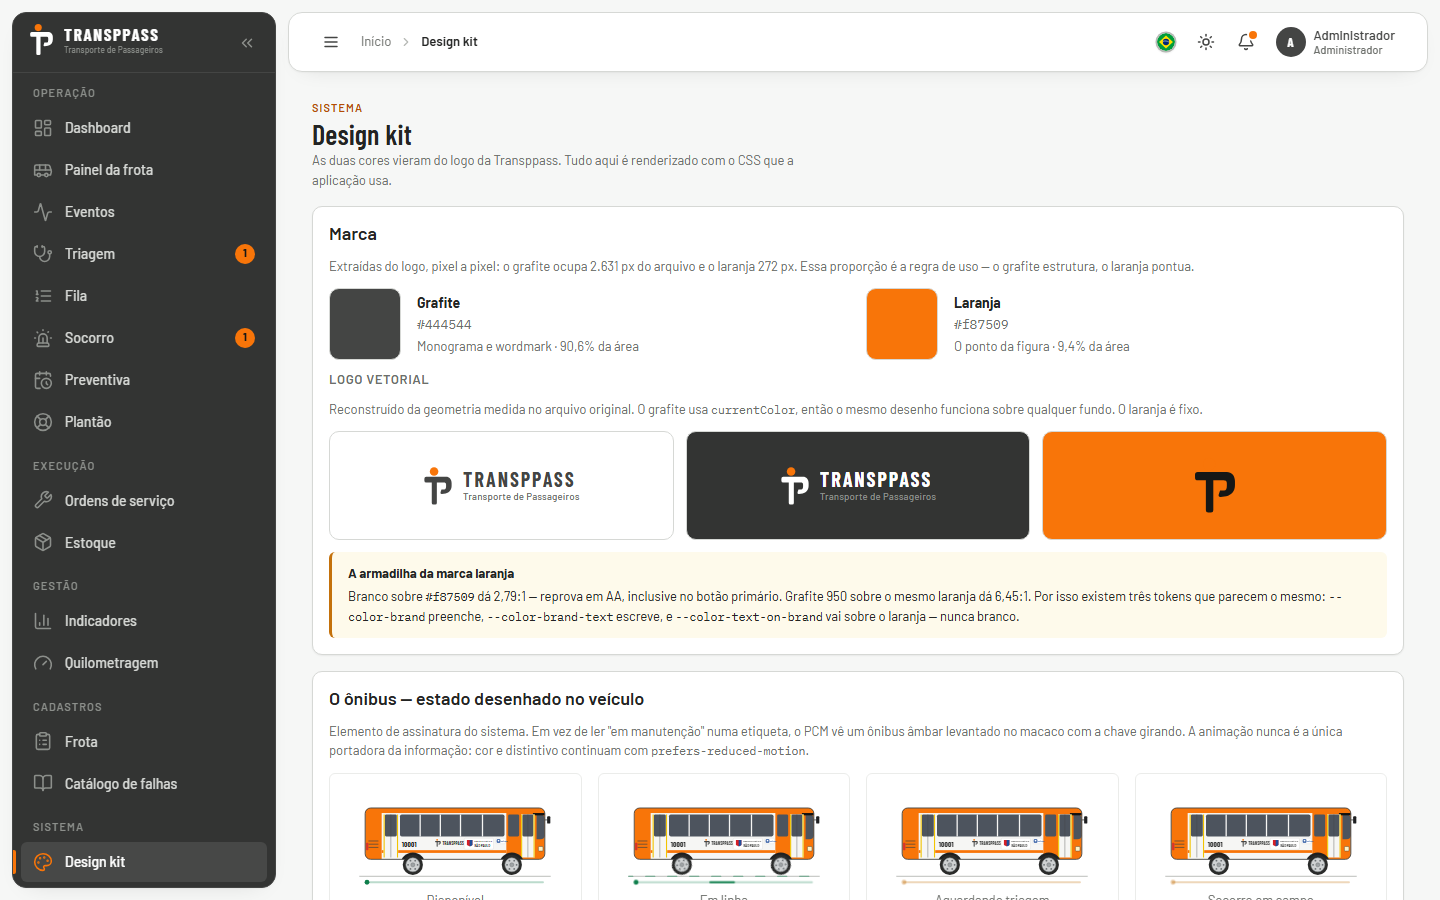
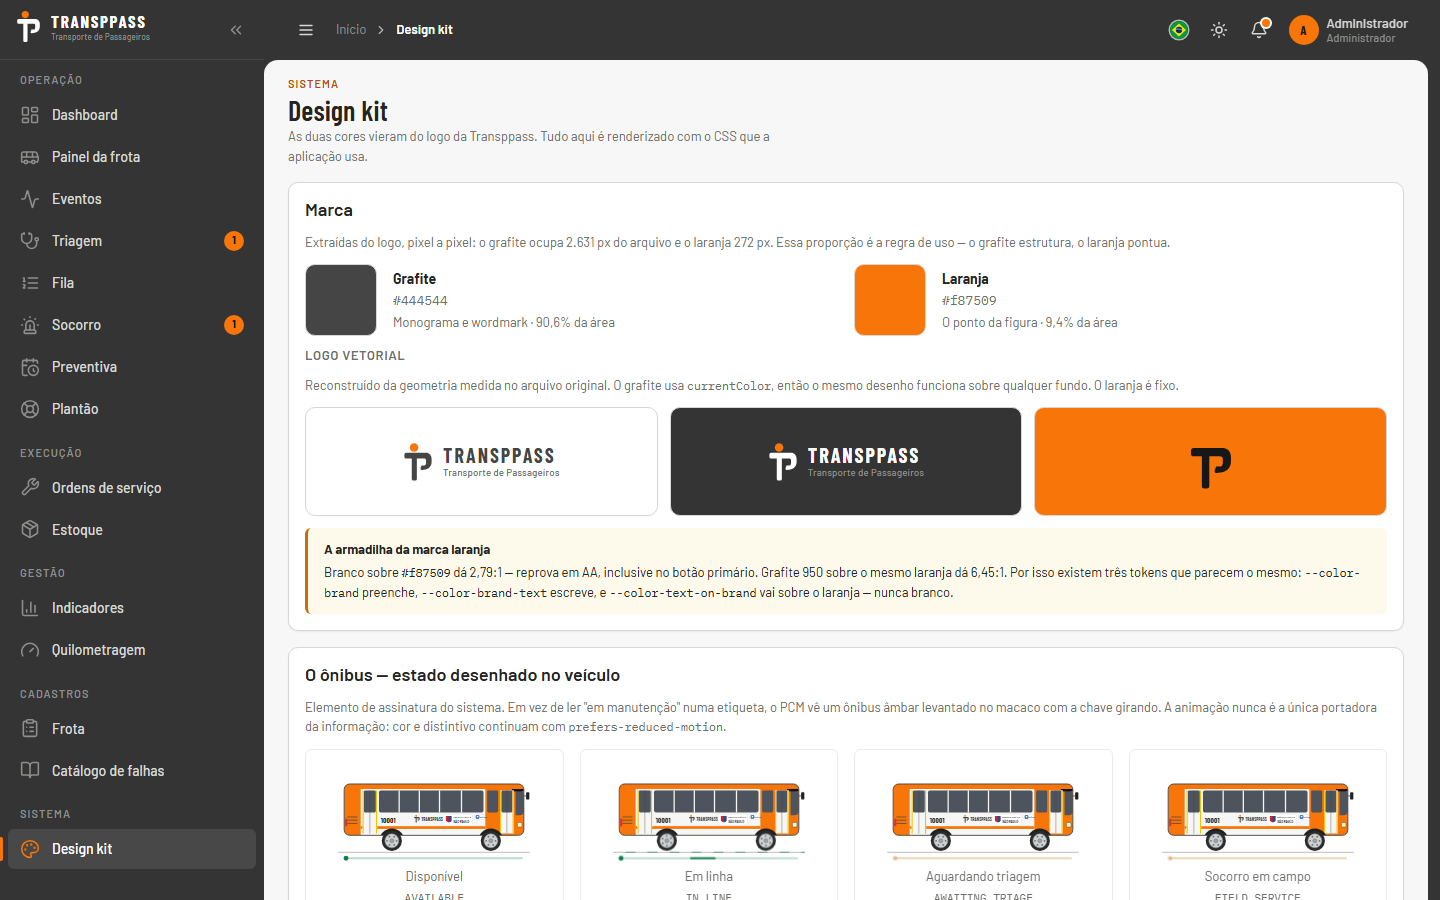
Shell: chassi em L (sidebar + header contínuos) e o miolo como painel solto
Inverte a leitura anterior: sidebar e header são uma só superfície grafite,
e o conteúdo é a ilha — painel arredondado com respiro à direita e embaixo.
Header passa à paleta da sidebar (texto, botões, hover, avatar laranja).

Changed region(s): [[0.0, 0.0, 1.0, 1.0], [0.8125, 0.8711, 0.9375, 1.0], [0.2812, 0.4978, 0.4062, 0.56]]

diff --git a/packages/design-kit/src/css/shell.css b/packages/design-kit/src/css/shell.css
@@ -16,27 +16,24 @@
   --shell-header-h: 60px;
   --shell-subheader-h: 64px;
   --shell-gutter: var(--tp-space-6);
-  /* Respiro entre as ilhas (sidebar, header) e a borda da janela. */
+  /* Respiro entre o chassi (sidebar + header) e o painel do miolo. */
   --shell-gap: var(--tp-space-3);
   --shell-island-radius: var(--tp-radius-xl);
-  --shell-island-shadow: 0 1px 2px rgb(0 0 0 / 0.04), 0 8px 24px -16px rgb(0 0 0 / 0.18);
 }
 
 /*
- * Layout em ilhas: sidebar e header são painéis próprios, com cantos
- * arredondados e respiro, soltos sobre o fundo da página; o miolo fica no
- * fundo, com os cartões dele. A grade continua a mesma — só ganhou gap e
- * padding — então recolher a sidebar segue sendo a transição das colunas.
+ * Chassi em L + miolo solto: sidebar e header são UMA superfície contínua
+ * (a mesma cor grafite da marca), e o conteúdo é um painel arredondado com
+ * respiro dentro dela. A grade continua a mesma, então recolher a sidebar
+ * segue sendo a transição das colunas.
  */
 .shell {
   display: grid;
   grid-template-columns: var(--shell-sidebar-w) minmax(0, 1fr);
   grid-template-rows: var(--shell-header-h) minmax(0, 1fr);
-  gap: var(--shell-gap);
-  padding: var(--shell-gap);
   min-height: 100vh;
   min-height: 100dvh;
-  background: var(--color-bg);
+  background: var(--color-sidebar-bg);
   transition: grid-template-columns var(--tp-duration-slow) var(--tp-ease);
 }
 
@@ -50,16 +47,13 @@
   grid-column: 1;
   grid-row: 1 / -1;
   position: sticky;
-  top: var(--shell-gap);
-  height: calc(100vh - 2 * var(--shell-gap));
-  height: calc(100dvh - 2 * var(--shell-gap));
+  top: 0;
+  height: 100vh;
+  height: 100dvh;
   display: flex;
   flex-direction: column;
   background: var(--color-sidebar-bg);
   color: var(--color-sidebar-text);
-  border: var(--tp-border-thin) solid var(--color-sidebar-border);
-  border-radius: var(--shell-island-radius);
-  box-shadow: var(--shell-island-shadow);
   overflow: hidden;
   z-index: var(--tp-z-sticky);
   width: var(--shell-sidebar-w);
@@ -287,21 +281,20 @@
 
 /* ---- Header ------------------------------------------------------------- */
 
+/* O header é a barra horizontal do mesmo chassi da sidebar. */
 .header {
   grid-column: 2;
   grid-row: 1;
   position: sticky;
-  top: var(--shell-gap);
+  top: 0;
   z-index: var(--tp-z-sticky);
   display: flex;
   align-items: center;
   gap: var(--tp-space-3);
   height: var(--shell-header-h);
   padding: 0 var(--shell-gutter);
-  background: var(--color-surface);
-  border: var(--tp-border-thin) solid var(--color-border);
-  border-radius: var(--shell-island-radius);
-  box-shadow: var(--shell-island-shadow);
+  background: var(--color-sidebar-bg);
+  color: var(--color-sidebar-text);
 }
 
 .header__menu {
@@ -318,16 +311,16 @@
 }
 
 .header__crumbs a {
-  color: var(--color-text-muted);
+  color: var(--color-sidebar-muted);
   text-decoration: none;
 }
 
 .header__crumbs a:hover {
-  color: var(--color-text);
+  color: var(--color-sidebar-text-strong);
 }
 
 .header__crumbs .is-current {
-  color: var(--color-text);
+  color: var(--color-sidebar-text-strong);
   font-weight: var(--tp-weight-semibold);
   overflow: hidden;
   text-overflow: ellipsis;
@@ -360,7 +353,7 @@
   border-radius: var(--tp-radius-md);
   background: transparent;
   border: none;
-  color: var(--color-text-secondary);
+  color: var(--color-sidebar-text);
   font-size: var(--tp-text-sm);
   font-weight: var(--tp-weight-medium);
   cursor: pointer;
@@ -368,12 +361,12 @@
 }
 
 .header__btn:hover {
-  background: var(--color-surface-hover);
-  color: var(--color-text);
+  background: var(--color-sidebar-hover);
+  color: var(--color-sidebar-text-strong);
 }
 
 .header__btn[aria-expanded='true'] {
-  background: var(--color-surface-sunken);
+  background: var(--color-sidebar-active-bg);
   color: var(--color-text);
 }
 
@@ -397,8 +390,8 @@
   width: 30px;
   height: 30px;
   border-radius: var(--tp-radius-full);
-  background: var(--color-structure);
-  color: var(--color-text-inverse);
+  background: var(--color-brand);
+  color: var(--color-text-on-brand);
   display: inline-flex;
   align-items: center;
   justify-content: center;
@@ -419,7 +412,7 @@
 
 .header__user-role {
   font-size: var(--tp-text-2xs);
-  color: var(--color-text-muted);
+  color: var(--color-sidebar-muted);
 }
 
 /* Menu suspenso */
@@ -609,6 +602,10 @@
   min-width: 0;
   display: flex;
   flex-direction: column;
+  background: var(--color-bg);
+  border-radius: var(--shell-island-radius);
+  margin: 0 var(--shell-gap) var(--shell-gap) 0;
+  box-shadow: inset 0 1px 0 rgb(255 255 255 / 0.04);
 }
 
 .content__body {
@@ -628,12 +625,15 @@
     grid-template-columns: minmax(0, 1fr);
   }
 
+  .content {
+    margin: 0 var(--shell-gap) var(--shell-gap);
+  }
+
   .sidebar {
     position: fixed;
     inset: 0 auto 0 0;
     height: 100vh;
     height: 100dvh;
-    border-radius: 0 var(--shell-island-radius) var(--shell-island-radius) 0;
     width: var(--shell-sidebar-w);
     transform: translateX(-100%);
     transition: transform var(--tp-duration-slow) var(--tp-ease);
